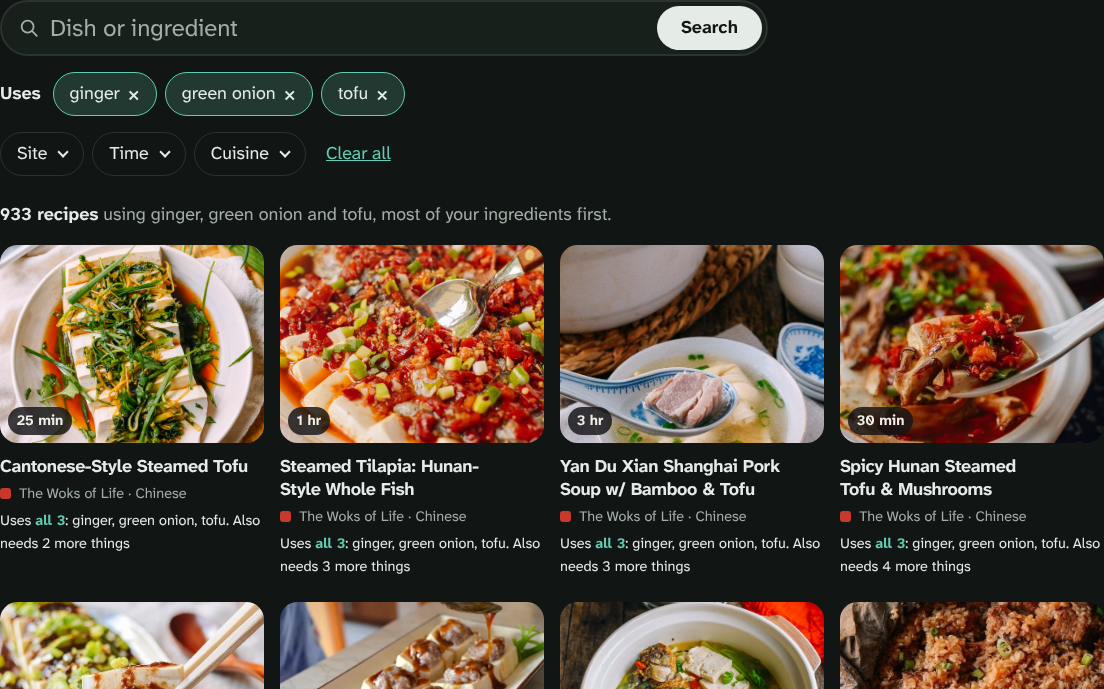
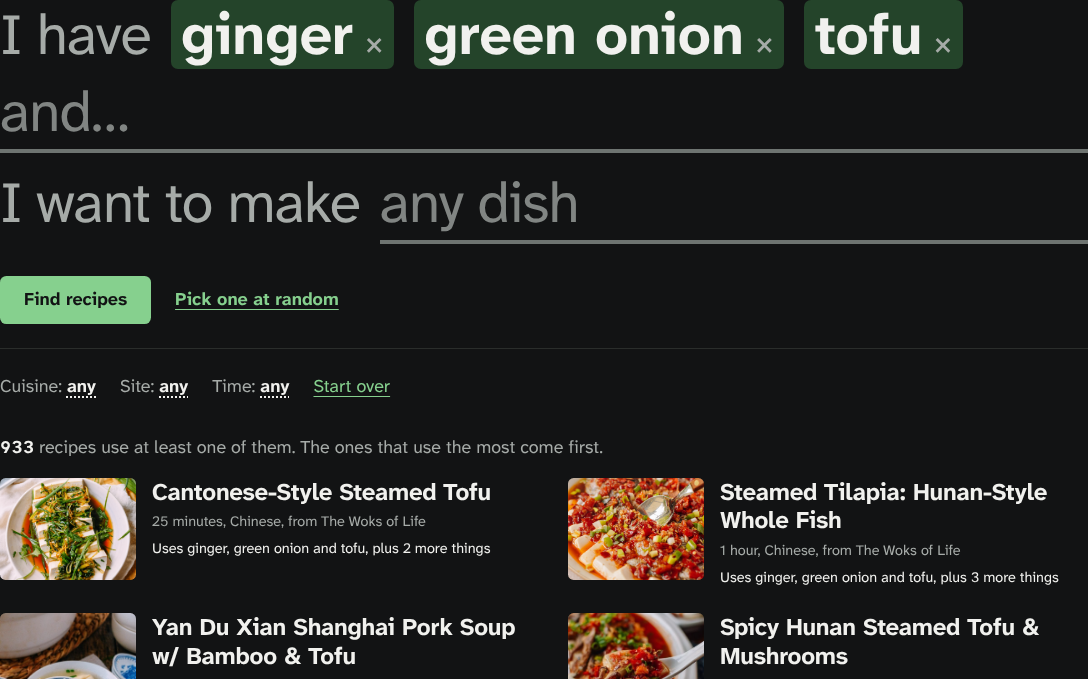
Refresh Labs cards for the standalone labs' new looks
Claude-Session: https://claude.ai/code/session_015KDcQFxviV9wsAXWb9bgU5

diff --git a/src/data/projects.ts b/src/data/projects.ts
@@ -39,7 +39,7 @@ export const projects: Project[] = [
     started: 'November 2026',
     repo: 'kyle-pace/skill-tree',
     imageAlt:
-      'A stats card for a Director of Product, a row of career tracks, and branching skill trees for Hospitality, Project to Product and Design.',
+      'Career tracks listed down the left like binder tabs, beside small skill trees drawn on blueprint graph paper and a panel of quests in progress.',
   },
   {
     slug: 'world-cuisine',
@@ -63,7 +63,8 @@ export const projects: Project[] = [
     accent: 'sky',
     started: 'November 2026',
     repo: 'kyle-pace/wa-transit-map',
-    imageAlt: 'A dark map of the Puget Sound region, crisscrossed by colored transit routes and vehicle dots.',
+    imageAlt:
+      'A dark map of Puget Sound crisscrossed by colored routes and vehicle dots, with a green sign reading Washington transit and a list of layers.',
   },
   {
     slug: 'recipe-search',
@@ -75,6 +76,7 @@ export const projects: Project[] = [
     accent: 'mint',
     started: 'November 2026',
     repo: 'kyle-pace/recipe-search',
-    imageAlt: 'A recipe search field above a grid of dish photos, each with its cooking time and the site it comes from.',
+    imageAlt:
+      'The sentence “I have ginger, green onion, tofu”, with each ingredient highlighted, above rows of dish photos and recipe names.',
   },
 ];
